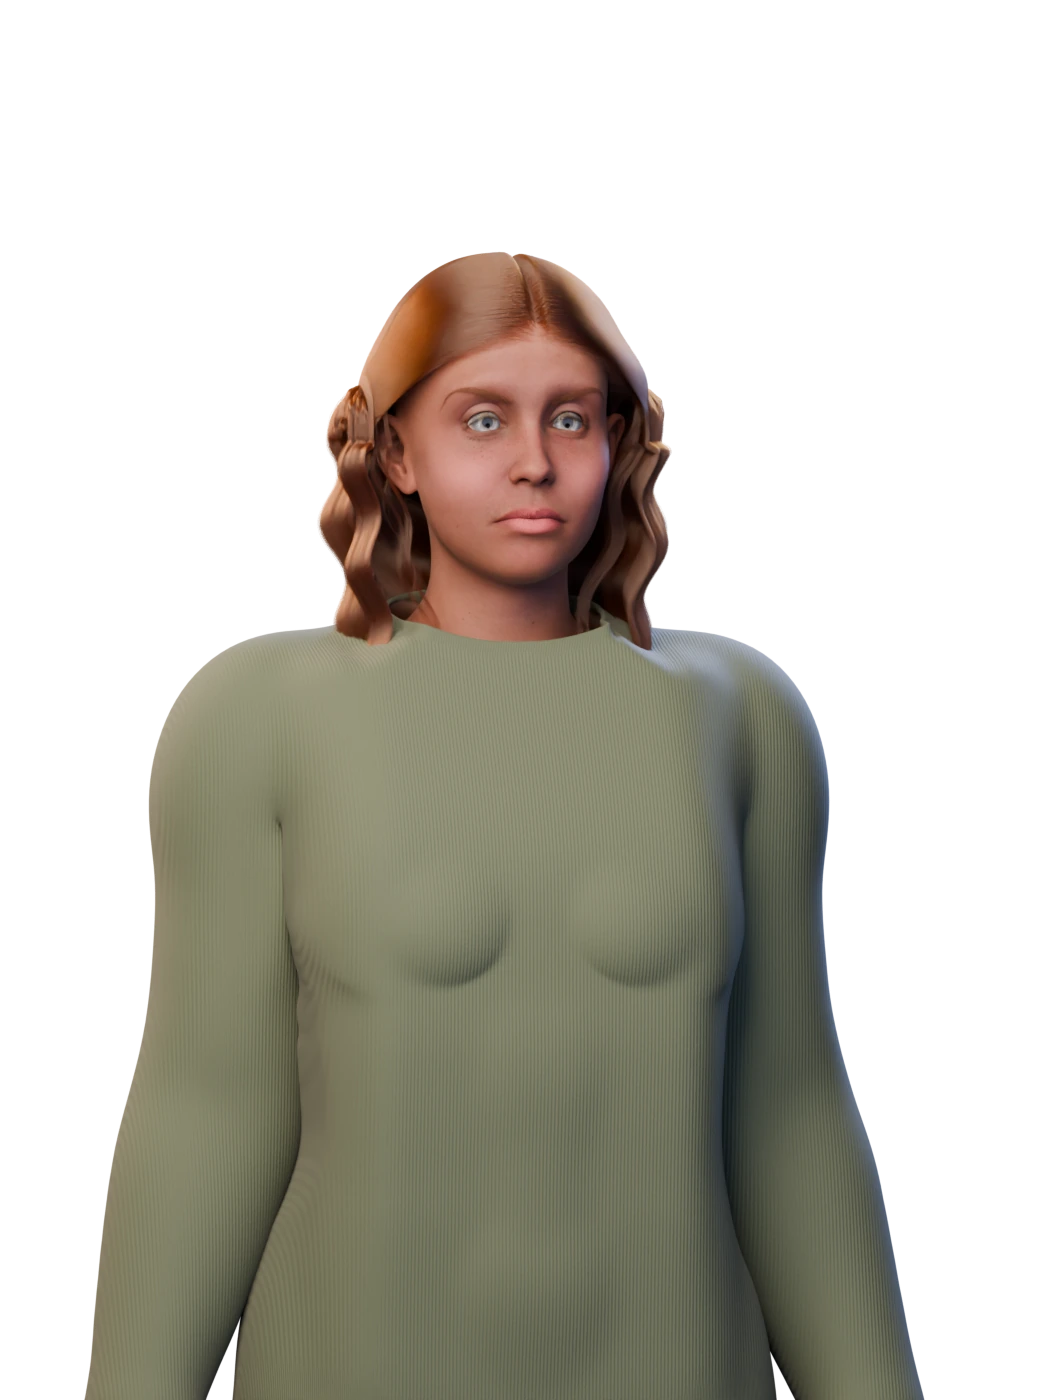
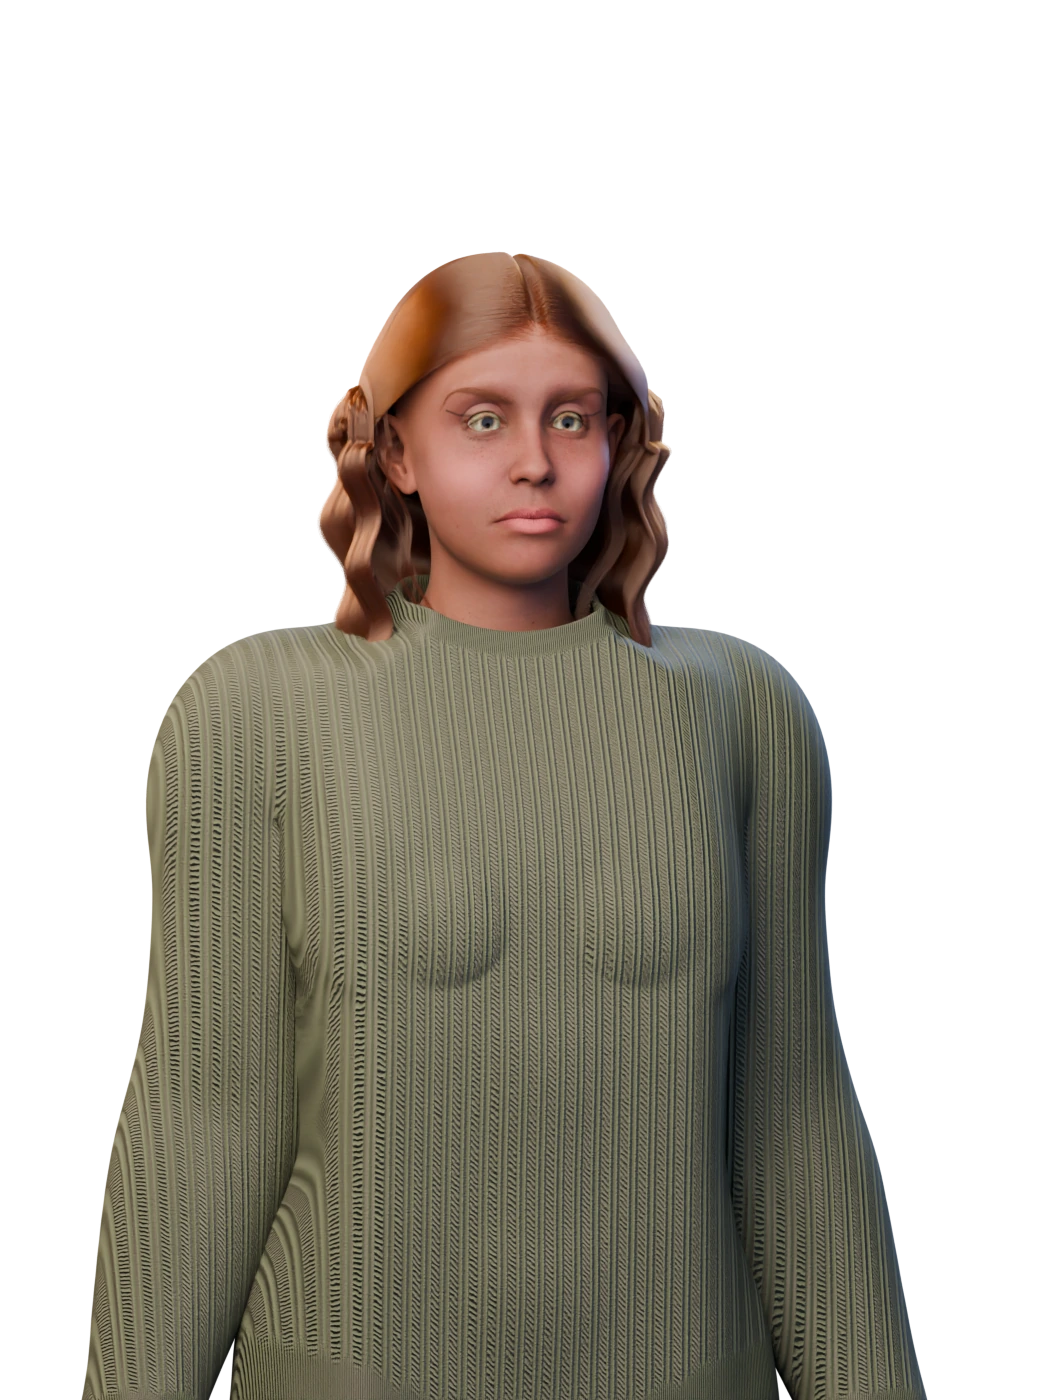
Art: tailoring for Webb, beauty work for Nell
Webb: tidy salt-and-pepper hair (hairgen: per-strand colour pick, less
frizz, less lift, tighter clumps), shirt collar and a necktie placed
against the real shirt surface (garments.collar_and_tie), steel-grey eyes,
waistcoat V moved up. Nell: green-hazel eyes (eye texture 14), eyeliner
with a wing and a lower-lid smudge anchored to the real eye position,
wider-opening eyelids, chunky cable-knit sweater with ribbed cuffs and a
soft roll collar. Fabrics: specular turned down so dark cloth stays dark.

Changed region(s): [[0.061, 0.3993, 0.8838, 1.0]]

diff --git a/art/garments.py b/art/garments.py
@@ -173,6 +173,8 @@ def _fabric(name, colour, rib_scale, rib_strength, band_rib_scale, rough=0.85, s
     b = nt.nodes["Principled BSDF"]
     b.inputs["Base Color"].default_value = lib.rgb(colour)
     b.inputs["Roughness"].default_value = rough
+    if "Specular IOR Level" in b.inputs:
+        b.inputs["Specular IOR Level"].default_value = 0.2        # cloth hardly reflects: keeps dark colours dark
     if "Sheen Weight" in b.inputs:
         b.inputs["Sheen Weight"].default_value = sheen
     coord = nt.nodes.new("ShaderNodeTexCoord")
@@ -221,12 +223,94 @@ def _neck_hem(neck_z, hem_z, dip=0.25):
     return planes, keep
 
 
-def sweater(body, colour="#7f8c6c", neck_z=None, hem_z=None):
-    """A long-sleeved knit sweater with ribbed cuffs, hem and crew neck."""
+def _cable_knit(name, colour):
+    """A chunky cable knit: wide vertical ribs, plaited cables between them, a fuzzy surface."""
+    m = bpy.data.materials.new(name)
+    m.use_nodes = True
+    nt = m.node_tree
+    b = nt.nodes["Principled BSDF"]
+    b.inputs["Base Color"].default_value = lib.rgb(colour)
+    b.inputs["Roughness"].default_value = 0.95
+    if "Specular IOR Level" in b.inputs:
+        b.inputs["Specular IOR Level"].default_value = 0.15
+    if "Sheen Weight" in b.inputs:
+        b.inputs["Sheen Weight"].default_value = 0.12
+        b.inputs["Sheen Roughness"].default_value = 0.5
+    coord = nt.nodes.new("ShaderNodeTexCoord")
+    # Ribs: straight columns, 22 per metre of width, rounded.
+    ribs = nt.nodes.new("ShaderNodeTexWave")
+    ribs.bands_direction = "X"
+    ribs.wave_profile = "SIN"
+    ribs.inputs["Scale"].default_value = 70.0
+    ribs.inputs["Distortion"].default_value = 0.0
+    nt.links.new(coord.outputs["Object"], ribs.inputs["Vector"])
+    # Cables: every third column braids; a diagonal wave on the vertical axis makes the plait.
+    cab = nt.nodes.new("ShaderNodeTexWave")
+    cab.bands_direction = "DIAGONAL"
+    cab.inputs["Scale"].default_value = 160.0
+    cab.inputs["Distortion"].default_value = 3.0
+    cab.inputs["Detail"].default_value = 1.0
+    nt.links.new(coord.outputs["Object"], cab.inputs["Vector"])
+    zone = nt.nodes.new("ShaderNodeTexWave")
+    zone.bands_direction = "X"
+    zone.inputs["Scale"].default_value = 23.0
+    zone.inputs["Distortion"].default_value = 0.0
+    nt.links.new(coord.outputs["Object"], zone.inputs["Vector"])
+    zmap = nt.nodes.new("ShaderNodeMapRange")
+    zmap.interpolation_type = "SMOOTHSTEP"
+    zmap.inputs[1].default_value, zmap.inputs[2].default_value = 0.55, 0.8
+    nt.links.new(zone.outputs["Fac"], zmap.inputs[0])
+    mixh = nt.nodes.new("ShaderNodeMix")
+    mixh.data_type = "FLOAT"
+    nt.links.new(zmap.outputs["Result"], mixh.inputs["Factor"])
+    nt.links.new(ribs.outputs["Fac"], mixh.inputs["A"])
+    nt.links.new(cab.outputs["Fac"], mixh.inputs["B"])
+    band = nt.nodes.new("ShaderNodeAttribute")
+    band.attribute_name = "band"
+    cuff = nt.nodes.new("ShaderNodeWave") if False else nt.nodes.new("ShaderNodeTexWave")
+    cuff.bands_direction = "X"
+    cuff.inputs["Scale"].default_value = 210.0
+    nt.links.new(coord.outputs["Object"], cuff.inputs["Vector"])
+    pick = nt.nodes.new("ShaderNodeMix")
+    pick.data_type = "FLOAT"
+    nt.links.new(band.outputs["Fac"], pick.inputs["Factor"])
+    nt.links.new(mixh.outputs["Result"], pick.inputs["A"])
+    nt.links.new(cuff.outputs["Fac"], pick.inputs["B"])
+    fuzz = nt.nodes.new("ShaderNodeTexNoise")
+    fuzz.inputs["Scale"].default_value = 500.0
+    add = nt.nodes.new("ShaderNodeMath")
+    add.operation = "MULTIPLY_ADD"
+    add.inputs[1].default_value = 2.2
+    nt.links.new(pick.outputs["Result"], add.inputs[0])
+    nt.links.new(fuzz.outputs["Fac"], add.inputs[2])
+    bump = nt.nodes.new("ShaderNodeBump")
+    bump.inputs["Strength"].default_value = 0.9
+    bump.inputs["Distance"].default_value = 0.004
+    nt.links.new(add.outputs[0], bump.inputs["Height"])
+    nt.links.new(bump.outputs["Normal"], b.inputs["Normal"])
+    # Light and shade in the grooves: a little darker where the height is low.
+    dark = nt.nodes.new("ShaderNodeMix")
+    dark.data_type = "RGBA"
+    dark.blend_type = "MULTIPLY"
+    dark.inputs["B"].default_value = (0.55, 0.55, 0.55, 1.0)
+    inv = nt.nodes.new("ShaderNodeMath")
+    inv.operation = "SUBTRACT"
+    inv.inputs[0].default_value = 1.0
+    nt.links.new(pick.outputs["Result"], inv.inputs[1])
+    nt.links.new(inv.outputs[0], dark.inputs["Factor"])
+    dark.inputs["A"].default_value = lib.rgb(colour)
+    nt.links.new(dark.outputs["Result"], b.inputs["Base Color"])
+    return m
+
+
+def sweater(body, colour="#7f8c6c", neck_z=None, hem_z=None, chunky=False):
+    """A long-sleeved knit sweater with ribbed cuffs, hem and crew neck. chunky: cable knit, thicker and softer."""
     planes, keep = _neck_hem(neck_z, hem_z, dip=0.3)
     ob = build(body, TORSO + SHOULDERS + UPPER_ARMS + FOREARMS + NECK, "sweater", offset=0.02, smooth_iters=30,
-               thickness=0.004, keep=keep, planes=planes, flatten=0.004, drape=3)
-    _assign(ob, _fabric("knit", colour, rib_scale=120.0, rib_strength=1.0, band_rib_scale=260.0, sheen=0.05))
+               thickness=0.006 if chunky else 0.004, keep=keep, planes=planes, flatten=0.004, drape=3,
+               band_width=0.04 if chunky else 0.03)
+    _assign(ob, _cable_knit("cable_knit", colour) if chunky else
+            _fabric("knit", colour, rib_scale=120.0, rib_strength=1.0, band_rib_scale=260.0, sheen=0.05))
     return ob
 
 
@@ -309,3 +393,102 @@ def trousers(body, colour="#2d3238", top_z=None, bottom_z=None, offset=0.016):
         obs.append(_hull_object(half, nm, offset, mat))
     print("GARMENT trousers: %d points" % len(pts))
     return obs
+
+
+def collar_and_tie(body, shirt_obj, neck_z, collar_colour="#d8d3c6", tie_colour="#5a1c26", tie_bottom_z=None):
+    """A turned-down shirt collar and a necktie lying on the shirt front. The tie is placed against the shirt's
+    actual surface, so it sits flat whatever the body shape; garments outside the shirt (the waistcoat) cover it."""
+    from mathutils.bvhtree import BVHTree
+    dom = _dominant_groups(body)
+    pos, _ = _skin_positions(body)
+    ring = [pos[i] for i, g in enumerate(dom) if g in ("neck1", "neck2") and abs(pos[i].z - neck_z) < 0.012]
+    cx = sum(p.x for p in ring) / len(ring)
+    cy = sum(p.y for p in ring) / len(ring)
+    rx = max(abs(p.x - cx) for p in ring)
+    ry = max(abs(p.y - cy) for p in ring)
+    mat = _fabric("collar_cotton", collar_colour, rib_scale=900.0, rib_strength=0.05, band_rib_scale=900.0, rough=0.6,
+                  sheen=0.05, fuzz=1500.0)
+    # --- collar: a band that stands around the neck, with points that fall forward over the shirt front
+    n = 72
+    rows = 3
+    verts, faces = [], []
+    gap = 0.20                                          # radians left open at the front for the knot
+    for r in range(rows):
+        for k in range(n + 1):
+            th = -math.pi + gap + (2 * math.pi - 2 * gap) * k / n          # -pi.. pi, 0 at the back
+            close = max(0.0, 1.0 - (math.pi - abs(th)) / (math.pi * 0.55))   # 1 at the front, 0 a little way round
+            pt = close * close * (3 - 2 * close)                             # the points: only near the front
+            t = r / (rows - 1)
+            drop = 0.040 * pt * t                                            # points fall toward the chest
+            out = 0.013 + 0.012 * t + 0.014 * pt * t
+            x = cx + (rx + out) * math.sin(th)
+            y = cy + (ry + out) * math.cos(th)                               # th = +-pi is the front (-y)
+            verts.append((x, y, neck_z - 0.006 + 0.026 * (1 - t) - drop - 0.002 * t))
+    for r in range(rows - 1):
+        for k in range(n):
+            a = r * (n + 1) + k
+            faces.append((a, a + 1, a + n + 2, a + n + 1))
+    me = bpy.data.meshes.new("collar")
+    me.from_pydata(verts, [], faces)
+    co = bpy.data.objects.new("collar", me)
+    bpy.context.scene.collection.objects.link(co)
+    sol = co.modifiers.new("thick", "SOLIDIFY")
+    sol.thickness = 0.0025
+    sub = co.modifiers.new("smooth", "SUBSURF")
+    sub.levels = 1
+    sub.render_levels = 2
+    for p in me.polygons:
+        p.use_smooth = True
+    me.materials.append(mat)
+
+    # --- tie
+    dg = bpy.context.evaluated_depsgraph_get()
+    ev = shirt_obj.evaluated_get(dg)
+    sm = ev.to_mesh()
+    sverts = [shirt_obj.matrix_world @ v.co for v in sm.vertices]
+    sm.calc_loop_triangles()
+    tree = BVHTree.FromPolygons(sverts, [tuple(t.vertices) for t in sm.loop_triangles])
+    ev.to_mesh_clear()
+
+    def front_y(x, z):
+        hit = tree.ray_cast((x, cy - 0.4, z), (0.0, 1.0, 0.0))
+        return hit[0].y if hit[0] is not None else cy - ry - 0.02
+
+    bottom = tie_bottom_z if tie_bottom_z is not None else neck_z - 0.36
+    top = neck_z - 0.004
+    tmat = _fabric("tie_silk", tie_colour, rib_scale=500.0, rib_strength=0.12, band_rib_scale=500.0, rough=0.5,
+                   sheen=0.0, fuzz=2500.0)
+    steps = 40
+    tv, tf = [], []
+    for k in range(steps + 1):
+        t = k / steps
+        z = top - (top - bottom) * t
+        w = 0.011 + 0.014 * min(1.0, t * 2.0) if t < 0.99 else 0.0       # narrow under the knot, widening to the blade
+        if t > 0.94:
+            w *= max(0.0, (1.0 - t) / 0.06)                              # pointed tip
+        y = front_y(0.0, z) - 0.0022 - 0.0012 * math.sin(t * math.pi)
+        for sd in (-1, 1):
+            tv.append((sd * w, y, z))
+    for k in range(steps):
+        a = 2 * k
+        tf.append((a, a + 1, a + 3, a + 2))
+    tm = bpy.data.meshes.new("tie")
+    tm.from_pydata(tv, [], tf)
+    to = bpy.data.objects.new("tie", tm)
+    bpy.context.scene.collection.objects.link(to)
+    s2 = to.modifiers.new("thick", "SOLIDIFY")
+    s2.thickness = 0.004
+    for p in tm.polygons:
+        p.use_smooth = True
+    tm.materials.append(tmat)
+    # knot: a squashed rounded wedge at the collar
+    ky = front_y(0.0, top) - 0.005
+    bpy.ops.mesh.primitive_uv_sphere_add(radius=0.0155, segments=24, ring_count=16, location=(0.0, ky, top - 0.004))
+    kn = bpy.context.active_object
+    kn.name = "tie_knot"
+    kn.scale = (1.0, 0.6, 0.9)
+    kn.data.materials.append(tmat)
+    for p in kn.data.polygons:
+        p.use_smooth = True
+    print("COLLAR+TIE neck %.3f,%.3f r %.3f/%.3f" % (cx, cy, rx, ry))
+    return co, to, kn

diff --git a/art/tfo_daz.py b/art/tfo_daz.py
@@ -212,7 +212,7 @@ def image_node(m, path, colour=True):
 
 
 # Eyes: the importer leaves Genesis 9's layered iris/sclera shader blank, so use the combined eye texture.
-EYE_TEX = TEX + "G9_Eyes09_D.jpg"
+EYE_TEX = TEX + "G9_Eyes%02d_D.jpg" % int(opt("--eyetex", 9))
 eyes = find("Eyes")
 for slot in (eyes.material_slots if eyes else []):
     m = slot.material
@@ -436,8 +436,11 @@ if "--crop" in args:
     ev = [e.matrix_world @ v.co for v in e.data.vertices]
     eye_mid = sum(ev, Vector((0, 0, 0))) / len(ev)
     style = hairgen.Style(cut="crop", part_x=0.025, strands=40000 if fast else 80000, clumps=1200 if fast else 2000,
-                          color=(0.0065, 0.007, 0.0085), radius=0.00007, lift=0.0025, volume=0.012, hairline_exp=0.6,
-                          top_len=0.06, side_len=0.012, sweep=1.0, cap_shade=0.08, hairline_up=0.012 + float(opt("--recede", 0.0)), step=0.004)
+                          color=(0.012, 0.012, 0.0135), radius=0.00007, lift=0.0025, volume=0.012, hairline_exp=0.6,
+                          top_len=float(opt("--toplen", 0.06)), side_len=0.012, sweep=1.0, cap_shade=0.08,
+                          frizz=float(opt("--frizz", 1.0)), clump=float(opt("--clump", 0.35)), lift_up=float(opt("--liftup", 1.0)),
+                          color2=(tuple(float(x) for x in opt("--haircolor2").split(",")) if opt("--haircolor2") else None),
+                          mix=float(opt("--hairmix", 0.5)), hairline_up=0.012 + float(opt("--recede", 0.0)), step=0.004)
     hairgen.grow(body, eye_mid, style, name="webb_hair")
 
 # --- clothes made from the body (art/garments.py) ---------------------------------------------------------
@@ -449,10 +452,14 @@ if "--sweater" in args or "--waistcoat" in args:
     neck_z = eye_z - 0.145                  # a crew neckline just below the throat
     hem_z = eye_z - 0.745                   # hip length: just below a sprite's bottom edge (eye - 0.73)
     if "--sweater" in args:
-        garments.sweater(body, colour="#3f4d3c", neck_z=neck_z, hem_z=hem_z)
+        garments.sweater(body, colour=opt("--sweatercolor", "#3f4d3c"), neck_z=neck_z + (0.03 if "--chunky" in args else 0.0),
+                         hem_z=hem_z, chunky="--chunky" in args)
     if "--waistcoat" in args:
-        garments.shirt(body, neck_z=eye_z - 0.13, hem_z=hem_z)
-        garments.waistcoat(body, colour="#2d3238", v_bottom_z=eye_z - 0.36, hem_z=eye_z - 0.745)
+        shirt_ob = garments.shirt(body, neck_z=eye_z - 0.13, hem_z=hem_z)
+        if "--tie" in args:
+            bpy.context.view_layer.update()
+            garments.collar_and_tie(body, shirt_ob, eye_z - 0.13, tie_colour=opt("--tie"), tie_bottom_z=eye_z - 0.375)
+        garments.waistcoat(body, colour="#2d3238", v_bottom_z=eye_z - 0.34, hem_z=eye_z - 0.745)
 
 if "--trousers" in args:
     import garments
@@ -497,16 +504,20 @@ if "--knit" in args and find("Shirt"):
 
 bpy.context.view_layer.update()
 # --- skin: ageing and makeup, anchored to the neutral face --------------------------------------------------
-if opt("--age") or opt("--makeup") or opt("--stubble"):
+if opt("--age") or opt("--makeup") or opt("--stubble") or opt("--smooth"):
     import skinfx
     bpy.context.view_layer.update()
     lms = skinfx.landmarks(body)
     if opt("--age"):
         skinfx.age(body, lms, amount=float(opt("--age")))
     if opt("--makeup"):
-        skinfx.makeup(body, lms, amount=float(opt("--makeup")))
+        e_obj = find("Eyes")
+        eye_cz = sum((e_obj.matrix_world @ v.co).z for v in e_obj.data.vertices) / len(e_obj.data.vertices)
+        skinfx.makeup(body, lms, amount=float(opt("--makeup")), eye_z=eye_cz)
     if opt("--stubble"):
         skinfx.stubble(body, lms, amount=float(opt("--stubble")))
+    if opt("--smooth"):
+        skinfx.smooth(body, float(opt("--smooth")))
     print("SKINFX age", opt("--age"), "makeup", opt("--makeup"))
 
 # --- expression: Daz's FACS controls, the same face units the MakeHuman characters used ------------------
@@ -525,6 +536,13 @@ EXPRESSIONS = {
 }
 expr = args[args.index("--expr") + 1] if "--expr" in args else "calm"
 rig = next(o for o in bpy.data.objects if o.type == "ARMATURE" and o.name.startswith(name))
+if opt("--eyewide"):                                  # a permanent openness of the eyes, under every expression
+    base_wide = float(opt("--eyewide"))
+    EXPRESSIONS.setdefault(expr, {})
+    EXPRESSIONS[expr]["facs_ctrl_EyeWide"] = max(EXPRESSIONS[expr].get("facs_ctrl_EyeWide", 0.0), base_wide)
+    for side in ("Left", "Right"):                    # lids open further than a plain stare: bigger-looking eyes
+        EXPRESSIONS[expr]["facs_bs_EyelidOpenUpper" + side] = base_wide * 1.6
+        EXPRESSIONS[expr]["facs_bs_EyelidOpenLower" + side] = base_wide * 1.2
 if EXPRESSIONS.get(expr):
     for o in bpy.context.view_layer.objects:
         o.select_set(o == rig)

diff --git a/art/hairgen.py b/art/hairgen.py
@@ -24,7 +24,7 @@ class Style:
                  melanin=0.86, redness=0.5, radius=0.00005, lift=0.003, volume=0.006, hang_volume=0.012,
                  curl_under=0.02, back_shorter=0.015, fringe=False, seed=11,
                  top_len=0.055, side_len=0.014, sweep=0.9, cap_shade=None, hairline_up=0.0, hairline_exp=1.35,
-                 tint=None, color=None, taper=0.0, frame=58.0, comb_back=0.65, wave=0.0, wave_len=0.075, shine=0.0):
+                 tint=None, color=None, taper=0.0, frame=58.0, comb_back=0.65, wave=0.0, wave_len=0.075, shine=0.0, frizz=1.0, clump=0.35, lift_up=1.0, color2=None, mix=0.5):
         self.cut, self.part_x, self.length_z = cut, part_x, length_z
         self.strands, self.clumps, self.step = strands, clumps, step
         self.melanin, self.redness, self.radius = melanin, redness, radius
@@ -35,6 +35,8 @@ class Style:
         self.cap_shade, self.hairline_up, self.hairline_exp, self.tint = cap_shade, hairline_up, hairline_exp, tint
         self.frame, self.comb_back = frame, comb_back          # degrees kept clear of the face; how far the front is swept back
         self.wave, self.wave_len, self.shine = wave, wave_len, shine    # soft waves (fraction of the width), their length, gloss
+        self.frizz, self.clump, self.lift_up = frizz, clump, lift_up      # fly-aways, lock-forming, how far the top stands up
+        self.color2, self.mix = color2, mix                              # second colour for salt-and-pepper, share of the second
         self.taper = taper                                      # fraction the drape narrows by toward the ends
         self.color = color                                       # linear RGB; overrides melanin (for grey/white/dyed hair)
 
@@ -225,7 +227,7 @@ def grow(body, eye, style, name="hair"):
             loc, n, _, dist = bvh.find_nearest(p)
             t = walked / length
             if topness > 0.25:
-                lift = (0.15 + 0.6 * frontness) * (1 - t * 0.4)
+                lift = (0.15 + 0.6 * frontness) * (1 - t * 0.4) * style.lift_up
                 want = Vector((side * 0.45, style.sweep, lift))
             else:
                 want = Vector((side * 0.4, 0.35, -1.0))
@@ -260,9 +262,9 @@ def grow(body, eye, style, name="hair"):
             for i in range(n):
                 t = i / max(1, n - 1)
                 gi = min(len(gd) - 1, int(t * (len(gd) - 1)))
-                pull = 0.35 * t * t
+                pull = style.clump * t * t
                 s[i] = s[i].lerp(gd[gi] + (r - guide_roots[g]) * (1 - t), pull)
-        fz = Vector((rnd.gauss(0, 1), rnd.gauss(0, 1), rnd.gauss(0, 0.3))) * rnd.uniform(0.0004, 0.0016)
+        fz = Vector((rnd.gauss(0, 1), rnd.gauss(0, 1), rnd.gauss(0, 0.3))) * rnd.uniform(0.0004, 0.0016) * style.frizz
         n = len(s)
         for i in range(n):
             s[i] = s[i] + fz * (i / max(1, n - 1)) ** 1.5
@@ -285,6 +287,19 @@ def grow(body, eye, style, name="hair"):
     if style.color is not None:
         h.parametrization = "COLOR"
         h.inputs["Color"].default_value = (*style.color, 1.0)
+        if style.color2 is not None:                     # salt and pepper: each strand picks one of two colours
+            info = nt.nodes.new("ShaderNodeHairInfo")
+            pick = nt.nodes.new("ShaderNodeMapRange")
+            pick.interpolation_type = "LINEAR"
+            pick.inputs[1].default_value = style.mix - 0.001
+            pick.inputs[2].default_value = style.mix + 0.001
+            nt.links.new(info.outputs["Random"], pick.inputs[0])
+            colmix = nt.nodes.new("ShaderNodeMix")
+            colmix.data_type = "RGBA"
+            colmix.inputs["A"].default_value = (*style.color2, 1.0)
+            colmix.inputs["B"].default_value = (*style.color, 1.0)
+            nt.links.new(pick.outputs["Result"], colmix.inputs["Factor"])
+            nt.links.new(colmix.outputs["Result"], h.inputs["Color"])
     else:
         h.parametrization = "MELANIN"
         h.inputs["Melanin"].default_value = style.melanin

diff --git a/art/skinfx.py b/art/skinfx.py
@@ -235,7 +235,7 @@ def age(body, lm, amount=1.0):
     return creases
 
 
-def makeup(body, lm, amount=1.0, lip=(0.46, 0.08, 0.11), blush=(0.88, 0.30, 0.30), shadow=(0.30, 0.15, 0.14)):
+def makeup(body, lm, amount=1.0, eye_z=None, lip=(0.46, 0.08, 0.11), blush=(0.88, 0.30, 0.30), shadow=(0.30, 0.15, 0.14)):
     """Lipstick, blush and eyeshadow, with a little shine on the lips."""
     nt = _head_material(body).node_tree
     bsdf, src = _base_color_source(nt)
@@ -253,10 +253,23 @@ def makeup(body, lm, amount=1.0, lip=(0.46, 0.08, 0.11), blush=(0.88, 0.30, 0.30
     cheek = lm["l_cheek"]
     blush_m = nb.maxof([nb.blob(p, (s * (cheek.x - 0.004), cheek.y, cheek.z - 0.006), (0.034, 1.0, 0.024)) for s in (-1, 1)])
     up = lm["l_eyelidupper"]
-    lid_m = nb.maxof([nb.blob(p, (s * (up.x + 0.001), up.y, up.z + 0.0045), (0.019, 1.0, 0.0085)) for s in (-1, 1)])
+    lid_z = (eye_z + 0.0017) if eye_z is not None else up.z       # the lid margin: just above the eyeball's centre
+    lid_m = nb.maxof([nb.blob(p, (s * (up.x + 0.001), up.y, lid_z + 0.0045), (0.019, 1.0, 0.0085)) for s in (-1, 1)])
 
+    # Eyeliner along the upper lid with a small wing, and a softer smudge under the outer lower lid.
+    liner = []
+    for sd in (-1, 1):
+        x0, x1 = up.x - 0.0155, up.x + 0.0165
+        z = lid_z + 0.0004
+        liner.append(nb.groove(nb.seg_dist(p, (sd * x0, 0, z - 0.0006), (sd * x1, 0, z + 0.0012)), 0.0016))
+        liner.append(nb.groove(nb.seg_dist(p, (sd * x1, 0, z + 0.0012), (sd * (x1 + 0.0075), 0, z + 0.0045)), 0.0013))
+    liner_m = nb.maxof(liner)
+    low = lm["l_eyelidlower"]
+    smudge = nb.maxof([nb.blob(p, (sd * (low.x + 0.007), low.y, low.z - 0.0012), (0.011, 1.0, 0.0032)) for sd in (-1, 1)])
     out = _tint(nt, src, blush, nb.math("MULTIPLY", blush_m, 0.20 * amount))
     out = _tint(nt, out, shadow, nb.math("MULTIPLY", lid_m, 0.34 * amount))
+    out = _tint(nt, out, (0.10, 0.06, 0.05), nb.math("MULTIPLY", smudge, 0.30 * amount))
+    out = _tint(nt, out, (0.015, 0.010, 0.010), nb.math("MULTIPLY", liner_m, 0.92 * amount))
     out = _tint(nt, out, lip, nb.math("MULTIPLY", lip_mask, 0.62 * amount))
     nt.links.new(out, bsdf.inputs["Base Color"])
     return lip_mask
@@ -299,3 +312,11 @@ def stubble(body, lm, amount=1.0, colour=(0.55, 0.52, 0.5)):
     nt.links.new(out, bsdf.inputs["Base Color"])
     _add_bump(nt, nb.math("MULTIPLY", hairs, 1.0), 0.25 * amount, distance=0.0004)
     return area
+
+
+def smooth(body, amount=0.5):
+    """Softer skin: weaken the pore-scale normal map (1.0 keeps it as is)."""
+    nt = _head_material(body).node_tree
+    for n in nt.nodes:
+        if n.bl_idname == "ShaderNodeNormalMap":
+            n.inputs["Strength"].default_value = amount
